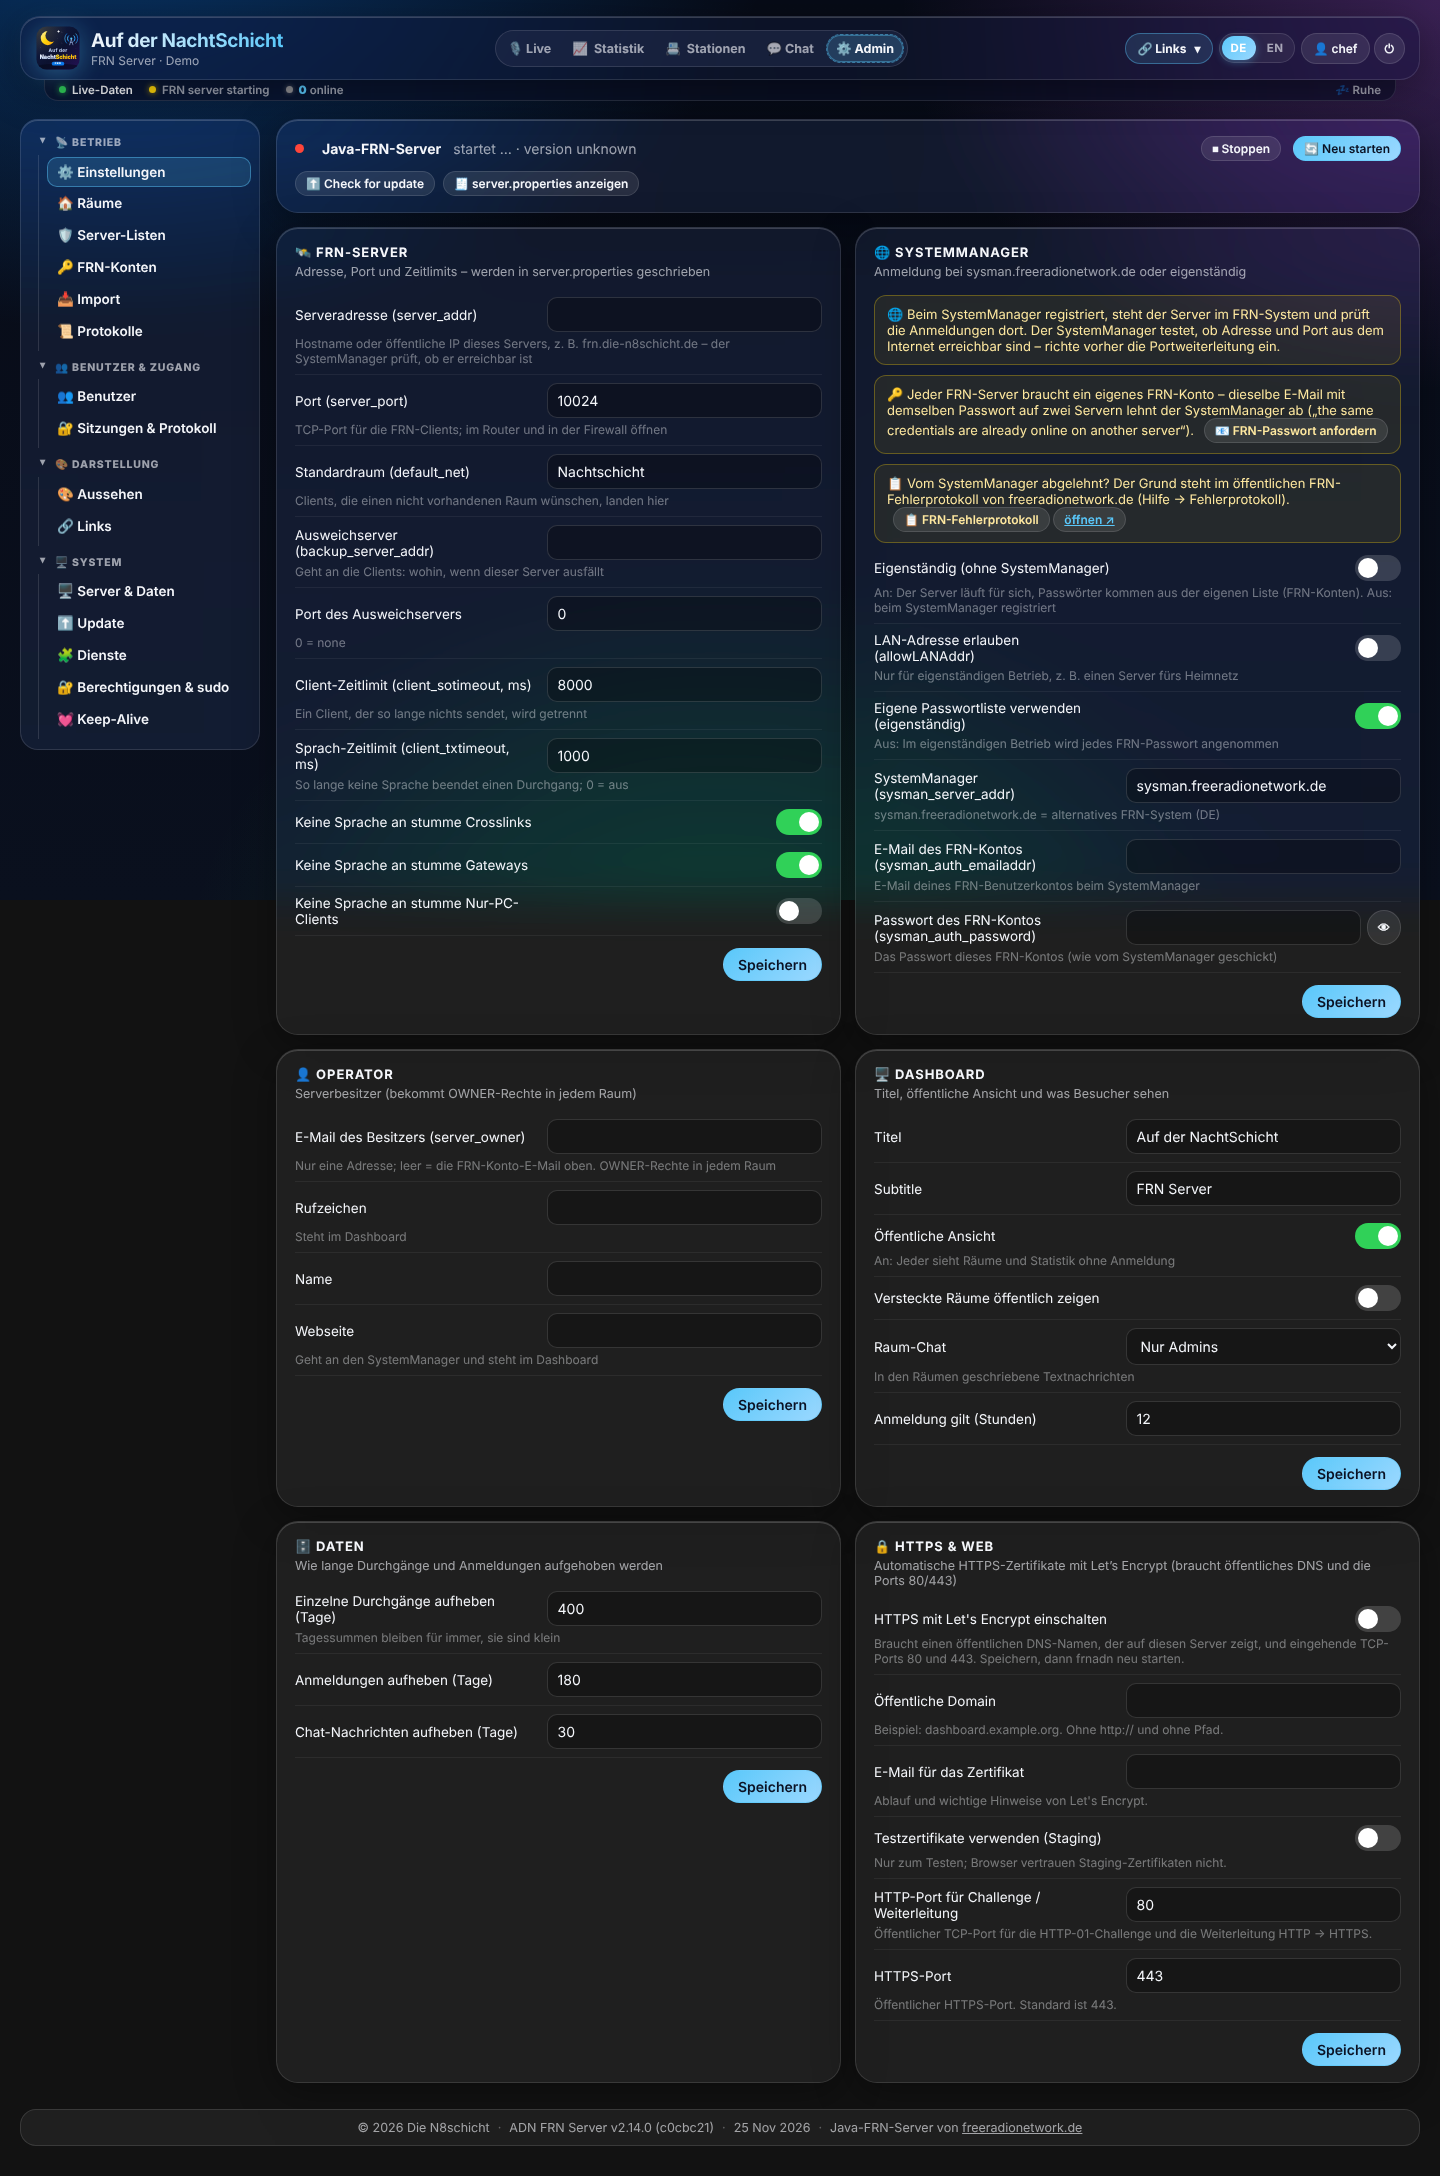
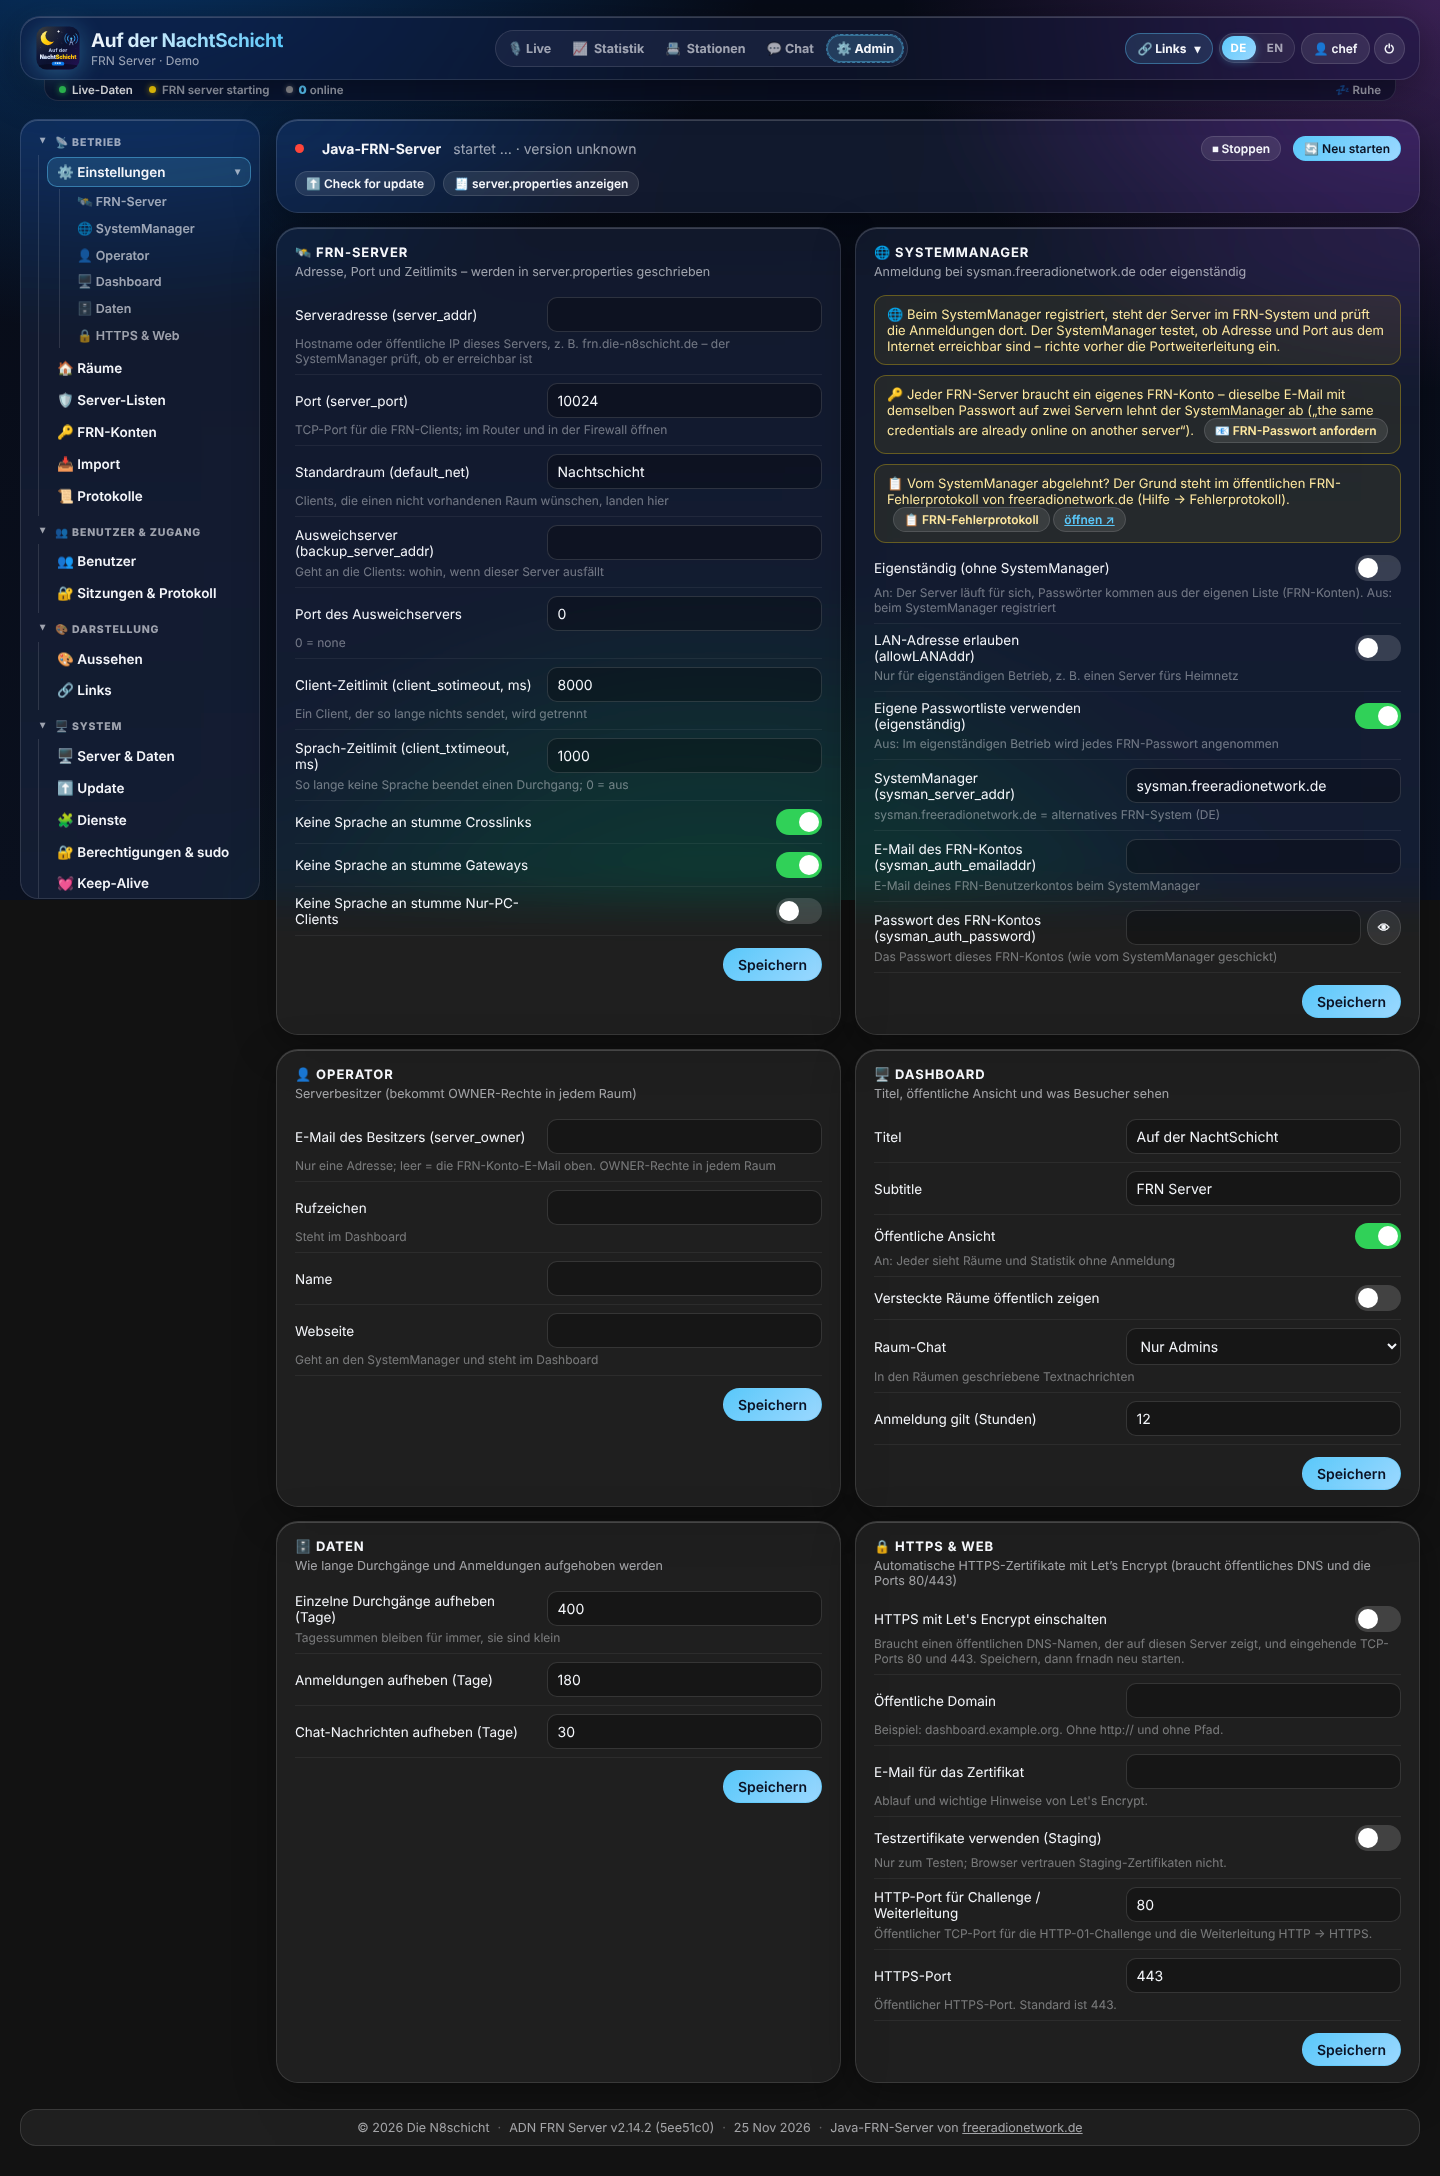
Admin: frühere Unter-Menüs als Zweige im Baum-Menü, Backup mit eigenem Eintrag (ADN)
N8 Kit: Einträge im Baum können Zweige haben. HBlink4: Einstellungen, DMR-Server und APRS mit ihren Abschnitten;
N8 Hotspot und ADN: Abschnitte der Einstellungen. Doku und Screenshots angepasst, Einzelheiten in CHANGELOG.md.

Claude-Session: https://claude.ai/code/session_01J5RG2nh5KG4yZP2DtuvZ9u

Changed region(s): [[0.0312, 0.0938, 0.125, 0.4062]]

diff --git a/static/app.js b/static/app.js
@@ -751,22 +751,38 @@ const ADMIN_PANES = ['settings', 'rooms', 'lists', 'accounts', 'users', 'system'
 function adminGroups() {
     const G = N8Kit.nav.GROUPS;
     return [
-        { id: 'betrieb', label: G.betrieb, items: [{ id: 'settings', label: '⚙ Settings' }, { id: 'rooms', label: '🏠 Rooms' }, { id: 'lists', label: '🛡 Server lists' },
+        { id: 'betrieb', label: G.betrieb, items: [{ id: 'settings', label: '⚙ Settings',
+            children: (S.admin.sections || []).map(sec => ({ id: 'settings:' + sec.id, label: sec.title })) }, { id: 'rooms', label: '🏠 Rooms' }, { id: 'lists', label: '🛡 Server lists' },
             { id: 'accounts', label: '🔑 FRN accounts' }, { id: 'import', label: '📥 Import' }, { id: 'logs', label: '📜 Logs' }] },
         { id: 'zugang', label: G.zugang, items: [{ id: 'users', label: '👥 Users' }, { id: 'audit', label: '🔐 Sessions & log' }] },
         { id: 'darstellung', label: G.darstellung, items: [{ id: 'theme', label: '🎨 Theme' }, { id: 'links', label: '🔗 Links' }] },
-        { id: 'system', label: G.system, items: [{ id: 'system', label: '🖥 Server & data' }, ...N8Kit.nav.SYS_ITEMS.map(([id, label]) => ({ id, label }))] },
+        { id: 'system', label: G.system, items: [{ id: 'system', label: '🖥 Server & data' }, ...N8Kit.nav.SYS_ITEMS.map(([id, label]) => ({ id, label })),
+            { id: 'backup', label: '💾 Backup', hidden: !(S.me && S.me.role === 'superadmin') }] },
     ];
 }
 function showAdmin(a) {
-    if (!adminGroups().some(g => g.items.some(i => i.id === a))) a = 'settings';
+    const [base, sub] = String(a || '').split(':');
+    if (!adminGroups().some(g => g.items.some(i => i.id === base))) a = 'settings';
     S.admin.tab = a;
-    N8Kit.nav.tree($('adminNav'), adminGroups(), { active: a, key: 'frnadn-admin', onSelect: showAdmin });
-    const pane = a.startsWith('sys-') ? 'sys' : a;
+    const nav = () => N8Kit.nav.tree($('adminNav'), adminGroups(), { active: a, key: 'frnadn-admin', onSelect: showAdmin });
+    nav();
+    const pane = base.startsWith('sys-') ? 'sys' : base === 'backup' ? 'system' : (ADMIN_PANES.includes(base) ? base : 'settings');
     ADMIN_PANES.forEach(x => $('admin-' + x).classList.toggle('hidden', x !== pane));
-    if (pane === 'sys') loadSysView(a.slice(4));
+    if (pane === 'sys') loadSysView(base.slice(4));
     else ({ settings: loadSettings, rooms: loadRoomsAdmin, lists: loadLists, accounts: loadAccounts, users: loadUsers,
-       system: loadSystem, theme: loadThemeAdmin, links: loadLinksAdmin, import: loadImportAdmin, logs: loadLogs, audit: loadAudit })[a]().catch(e => $('admin-' + a).innerHTML = `<div class="tile"><div class="notice-box">⚠ ${esc(e.message)}</div></div>`);
+       system: loadSystem, theme: loadThemeAdmin, links: loadLinksAdmin, import: loadImportAdmin, logs: loadLogs, audit: loadAudit })[pane]()
+       .then(() => {
+           if (pane === 'system') {             // 💾 Backup has its own entry like in the other N8 systems
+               [...$('admin-system').children].forEach(c => { c.hidden = base === 'backup' ? c.id !== 'backupTiles' : c.id === 'backupTiles'; });
+               return;
+           }
+           if (pane !== 'settings') return;
+           nav();                                // the sections of the settings are the children in the menu
+           document.querySelectorAll('#admin-settings form[data-sec]').forEach(f => { f.hidden = !!sub && f.dataset.sec !== sub; });
+           const top = $('setServerTile'); if (top) top.hidden = !!sub;
+           const box = document.querySelector('#admin-settings .tiles'); if (box) box.classList.toggle('one', !!sub);
+       })
+       .catch(e => $('admin-' + pane).innerHTML = `<div class="tile"><div class="notice-box">⚠ ${esc(e.message)}</div></div>`);
     if (S.tab === 'admin') history.replaceState(null, '', '#admin/' + a);
 }
 // Admin → System: update, services, permissions & sudo, keep-alive – the N8 Kit views, identical in every N8 system
@@ -818,8 +834,9 @@ function formValues(form) { const v = {}; form.querySelectorAll('[name]').forEac
 // settings: everything of server.properties plus the dashboard
 async function loadSettings() {
     const d = await api('GET', '/api/admin/settings');
+    S.admin.sections = d.sections;
     setRestart(d.restart_needed);
-    $('admin-settings').innerHTML = `<div class="tile" style="margin-bottom:14px">${serverBox(d.server, d.jar)}
+    $('admin-settings').innerHTML = `<div class="tile" id="setServerTile" style="margin-bottom:14px">${serverBox(d.server, d.jar)}
         <div class="actions" style="justify-content:flex-start;margin-top:10px"><button class="btn small" onclick="checkUpdate(this)">⬆ Check for update</button>
             <button class="btn small" onclick="showProps()">🧾 Show server.properties</button><span class="dim" id="javaUpdInfo" style="font-size:12.5px"></span></div></div>
         <div class="tiles">${d.sections.map(sec => `

diff --git a/static/n8-kit.js b/static/n8-kit.js
@@ -414,6 +414,8 @@
     // ============================================================ admin menu as a tree (1.1.0)
     // groups: [{ id, label, items: [{ id, label, hidden }] }] – labels with a leading emoji. opts: { active, onSelect(id), key }
     // The same groups in every N8 system: Betrieb · Benutzer & Zugang · Darstellung · Netz & Domains · System.
+    // items may have children: [{ id, label }] – shown indented under the item (the former in-page menus of a page).
+    // onSelect gets the id of the item or of the child ('settings' or 'settings:dmr').
     function tree(el, groups, opts) {
         opts = opts || {};
         const key = 'n8nav:' + (opts.key || location.pathname);
@@ -421,14 +423,18 @@
         try { closed = JSON.parse(localStorage.getItem(key) || '{}'); } catch (e) { closed = {}; }
         const act = opts.active;
         const items = groups.map(g => ({ ...g, items: (g.items || []).filter(i => !i.hidden) })).filter(g => g.items.length);
-        const cur = items.flatMap(g => g.items).find(i => i.id === act);
+        const all = items.flatMap(g => g.items.flatMap(i => [i, ...(i.children || [])]));
+        const cur = all.find(i => i.id === act);
+        const inItem = i => i.id === act || (i.children || []).some(c => c.id === act);
+        const btn = (i, cls) => `<button type="button" class="n8-tree-i ${cls || ''} ${i.id === act ? 'on' : ''}" data-i="${esc(i.id)}">${esc(i.label)}${i.badge ? `<span class="n8-badge ${esc(i.badgeClass || '')}">${esc(i.badge)}</span>` : ''}</button>`;
         el.classList.add('n8-tree');
         el.innerHTML = `<button type="button" class="n8-tree-toggle">☰ <span>${esc(cur ? cur.label : 'Menü')}</span></button>
             <div class="n8-tree-body">${items.map(g => {
-                const open = !closed[g.id] || g.items.some(i => i.id === act);
+                const open = !closed[g.id] || g.items.some(inItem);
                 return `<div class="n8-tree-g ${open ? 'open' : ''}" data-g="${esc(g.id)}">
                     <button type="button" class="n8-tree-gh"><span class="n8-tree-car">▸</span>${esc(g.label)}</button>
-                    <div class="n8-tree-items">${g.items.map(i => `<button type="button" class="n8-tree-i ${i.id === act ? 'on' : ''}" data-i="${esc(i.id)}">${esc(i.label)}${i.badge ? `<span class="n8-badge ${esc(i.badgeClass || '')}">${esc(i.badge)}</span>` : ''}</button>`).join('')}</div></div>`;
+                    <div class="n8-tree-items">${g.items.map(i => btn(i, (i.children || []).length ? 'has-kids' + (inItem(i) ? ' kids-open' : '') : '')
+                        + ((i.children || []).length && inItem(i) ? `<div class="n8-tree-kids">${i.children.map(c => btn(c, 'kid')).join('')}</div>` : '')).join('')}</div></div>`;
             }).join('')}</div>`;
         el.querySelector('.n8-tree-toggle').onclick = () => el.classList.toggle('open');
         el.querySelectorAll('.n8-tree-gh').forEach(b => b.onclick = () => {
@@ -436,10 +442,10 @@
             try { localStorage.setItem(key, JSON.stringify(closed)); } catch (e) { /* private mode */ }
         });
         el.querySelectorAll('.n8-tree-i').forEach(b => b.onclick = () => {
-            el.querySelectorAll('.n8-tree-i').forEach(x => x.classList.toggle('on', x === b));
-            el.querySelector('.n8-tree-toggle span').textContent = t(b.textContent.trim());
+            const id = b.dataset.i;
+            tree(el, groups, { ...opts, active: id });          // children open and close with their item
             el.classList.remove('open');
-            if (opts.onSelect) opts.onSelect(b.dataset.i);
+            if (opts.onSelect) opts.onSelect(id);
         });
         retranslateEl(el);
     }

diff --git a/static/n8-kit.css b/static/n8-kit.css
@@ -158,3 +158,11 @@ html[data-theme-mode=light] .n8-log { background: rgba(0, 0, 0, .05); }
 .n8-admin-main .grid > .tile > .actions:last-child, .hb-admin .station-grid > .tile > .set-actions:last-child { margin-top: auto; padding-top: 12px; }
 .n8-sys-extra > .grid { grid-template-columns: 1fr !important; }
 .n8-card > p.n8-help { margin: 0 0 10px; }
+/* 1.1: children of a menu item (the former in-page menus) */
+.n8-tree-i.has-kids::after { content: "▸"; font-size: 10px; color: var(--text-dim, #aab); transition: transform .15s; }
+.n8-tree-i.has-kids.kids-open::after { transform: rotate(90deg); }
+.n8-tree-kids { display: flex; flex-direction: column; gap: 1px; margin: 1px 0 4px 12px; padding-left: 8px; border-left: 1px solid var(--glass-border, rgba(255, 255, 255, .12)); }
+.n8-tree-i.kid { padding: 5px 9px; font-size: 12.5px; font-weight: 600; color: var(--text-dim, rgba(235, 240, 250, .7)); }
+.n8-tree-i.kid:hover, .n8-tree-i.kid.on { color: var(--text, #f5f7fb); }
+.n8-admin-main [hidden], .hb-admin [hidden] { display: none !important; }
+.n8-admin-main .tiles.one, .n8-admin-main .grid.one { grid-template-columns: 1fr !important; }

diff --git a/frnadn/__init__.py b/frnadn/__init__.py
@@ -1,2 +1,2 @@
 """frn_adn – dashboard and admin area for the FRN server, design: Auf der NachtSchicht."""
-__version__ = "2.14.1"
+__version__ = "2.14.2"

diff --git a/docs/de/adminbereich.md b/docs/de/adminbereich.md
@@ -13,12 +13,12 @@ mit denselben Gruppen in derselben Reihenfolge:
 
 | Gruppe | Einträge |
 |---|---|
-| 📡 **Betrieb** | ⚙ Einstellungen · 🏠 Räume · 🛡 Server-Listen · 🔑 FRN-Konten · 📥 Import · 📜 Protokolle |
+| 📡 **Betrieb** | ⚙ Einstellungen (Zweige: FRN-Server, SystemManager, Operator, Dashboard, Daten, HTTPS & Web) · 🏠 Räume · 🛡 Server-Listen · 🔑 FRN-Konten · 📥 Import · 📜 Protokolle |
 | 👥 **Benutzer & Zugang** | 👥 Benutzer · 🔐 Sitzungen & Protokoll |
 | 🎨 **Darstellung** | 🎨 Aussehen (Theme) · 🔗 Links |
-| 🖥 **System** | 🖥 Server & Daten · ⬆ Update · 🧩 Dienste · 🔐 Berechtigungen & sudo · 💓 Keep-Alive |
+| 🖥 **System** | 🖥 Server & Daten · ⬆ Update · 🧩 Dienste · 🔐 Berechtigungen & sudo · 💓 Keep-Alive · 💾 Backup (nur Superadmin) |
 
-Gruppen klappen per Klick auf und zu; auf dem Handy wird das Menü zu einer aufklappbaren Leiste. Kacheln einer Reihe sind gleich hoch.
+Gruppen klappen per Klick auf und zu; seit 2.14.2 hängen die Abschnitte der Einstellungen als Zweige darunter (ein Zweig zeigt nur diesen Abschnitt). Auf dem Handy wird das Menü zu einer aufklappbaren Leiste. Kacheln einer Reihe sind gleich hoch.
 
 ## Rollen
 
@@ -129,7 +129,7 @@ Benutzer des Dashboards (nicht zu verwechseln mit FRN-Konten). Den Superadmin ka
 
 <p align="center"><img src="../images/admin-system.png" alt="Server & Daten" width="90%"></p>
 
-FRN-Server (Dienst, Port, Version, Pfade), Datenbank (Zeilen, Größe, Cache), Maschine (Last, Speicher, Platte) und Backup. Update, Dienste, Berechtigungen und Keep-Alive haben seit 2.14.0 eigene Einträge unter **System**.
+FRN-Server (Dienst, Port, Version, Pfade), Datenbank (Zeilen, Größe, Cache) und Maschine (Last, Speicher, Platte). Das Backup hat seit 2.14.2 einen eigenen Eintrag **System → 💾 Backup**. Update, Dienste, Berechtigungen und Keep-Alive haben seit 2.14.0 eigene Einträge unter **System**.
 
 | Knopf | Wirkung |
 |---|---|
@@ -141,7 +141,7 @@ FRN-Server (Dienst, Port, Version, Pfade), Datenbank (Zeilen, Größe, Cache), M
 
 <p align="center"><img src="../images/admin-backup.png" alt="Backup und Wiederherstellen" width="90%"></p>
 
-Unter *Server & Daten* sitzen zwei Kacheln, die nur der **Superadmin** sieht – ein Backup enthält alle Zugangsdaten.
+Unter **System → 💾 Backup** stehen zwei Kacheln, die nur der **Superadmin** sieht – ein Backup enthält alle Zugangsdaten.
 
 **💾 Backup** – Passwort zweimal eingeben (mindestens 10 Zeichen), **Backup erstellen**. Der Browser lädt die Datei
 `frn-backup-<host>-<datum>.frnbak` sofort herunter; die letzten **5** Backups bleiben zusätzlich in `/var/lib/frnadn/backups/`

diff --git a/CHANGELOG.md b/CHANGELOG.md
@@ -2,6 +2,15 @@
 
 Format: neueste Version zuerst. Die Versionsnummer steht in `frnadn/__init__.py`.
 
+## 2.14.2 – 2026-11-25
+
+### 🧭 Frühere Unter-Menüs im Baum-Menü
+- **⚙ Einstellungen** hat jetzt Zweige im Baum: FRN-Server · SystemManager · Operator · Dashboard · Daten · HTTPS & Web.
+  Ein Klick auf einen Zweig zeigt nur diesen Abschnitt in voller Breite, „Einstellungen“ selbst zeigt wie bisher alle (mit der Java-Kachel oben).
+- **💾 Backup** hat wie in den anderen N8-Systemen einen eigenen Eintrag unter **System** (nur für den Superadmin); „Server & Daten“ zeigt
+  nur noch FRN-Server, Rechner und Datenbank.
+- N8 Kit: Einträge im Baum können Zweige haben (`children`); sie klappen mit ihrem Eintrag auf und zu.
+
 ## 2.14.1 – 2026-11-25
 
 ### 🐛 Fix: Keep-Alive startete einen gesunden Dienst neu („Antwort ist kein JSON“)
